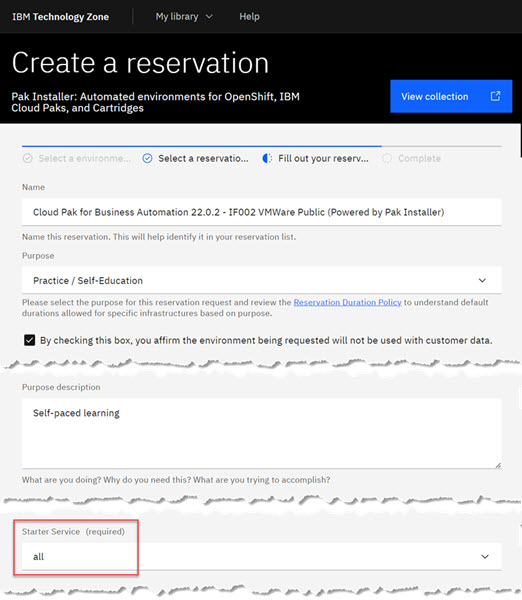
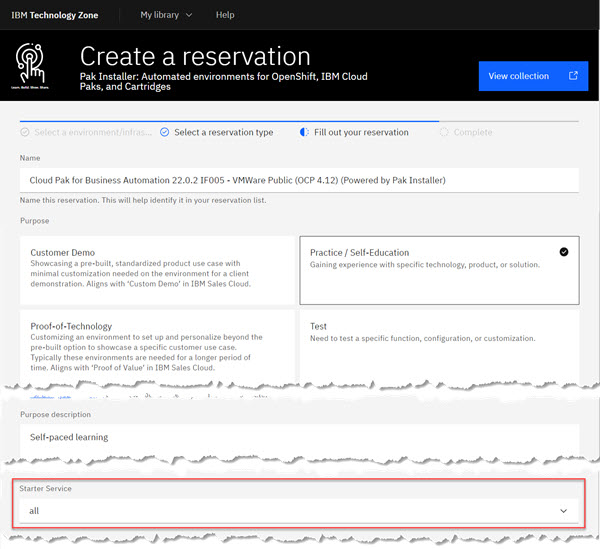
Updates to reflect latest changes on IBM TechZone

diff --git a/22.0.2/DeployingClientOnboarding2202.md b/22.0.2/DeployingClientOnboarding2202.md
@@ -2,7 +2,7 @@
 
 ## Introduction
 
-Use these instruction to deploy the out-of-box end-to-end [Client Onboarding solution](https://github.com/IBM/cp4ba-client-onboarding-scenario) and its accompanying [labs](https://github.com/IBM/cp4ba-client-onboarding-scenario/blob/main/JamInABox.md#table-of-content) to a self-provisioned Jam-in-a-Box environment (based on Cloud Pak for Business Automation (CP4BA) 22.0.2). For more information about Jam-in-a-Box refer to the [Jam-in-a-Box overview](https://github.com/IBM/cp4ba-jam-in-a-box) page.
+Use these instruction to deploy the out-of-box end-to-end [Client Onboarding solution](https://github.com/IBM/cp4ba-client-onboarding-scenario) and its accompanying [labs](https://github.com/IBM/cp4ba-labs/tree/main/22.0.2) to a self-provisioned Jam-in-a-Box environment (based on Cloud Pak for Business Automation (CP4BA) 22.0.2). For more information about Jam-in-a-Box refer to the [Jam-in-a-Box overview](https://github.com/IBM/cp4ba-jam-in-a-box) page.
 
 
 ## Prerequisites
@@ -11,29 +11,31 @@ Use these instruction to deploy the out-of-box end-to-end [Client Onboarding sol
 
    **a) IBM Business Partners and IBMers**
 
-   Reserve a [Jam-in-a-Box for Business Automation](https://techzone.ibm.com/collection/jam-in-a-box-for-business-automation) environment from IBM TechZone. For that select the **Cloud Pak for Business Automation 22.0.2 - IF002 VMWare Public (Powered by Pak Installer)** tile from the [Resources](https://techzone.ibm.com/collection/jam-in-a-box-for-business-automation/resources) tab. 
+   Reserve a [Jam-in-a-Box for Business Automation](https://techzone.ibm.com/collection/jam-in-a-box-for-business-automation) environment from IBM TechZone. For that select the **Cloud Pak for Business Automation 22.0.2 IF005 - VMWare Public (OCP 4.12) (Powered by Pak Installer)** tile from the [Resources](https://techzone.ibm.com/collection/jam-in-a-box-for-business-automation/resources) tab.
 
-   Provide and select the required information. Ensure that you keep the default selection '**all**' in the 'techzone-reservation' dropdown.
+   Provide and select the required information. The selection you make for 'Purpose' determines if you need to specify a 'Sales Opportunity number' and the 'reservation policy' (how long the environment is available and how often it can be extended).
+
+   Ensure that you keep the default selection '**all**' in the 'Starter Service' dropdown.
 
    <img src="..\images\techzone-reservation.jpg" />
 
    Once you have reserved an environment in IBM TechZone, it is first **Scheduled** for provisioning. After a while it moves into status **Provisioning**, and after some time it finally becomes **Ready**. Overall this may take up to 6 hours. You will receive several emails during that period. 
 
-   
-
-   The final email has the subject '**Your environment is ready**'. The email contains a link to the **PakInstaller Portal** that you require.
+   The final email has the subject '**Reservation Ready on IBM Technology Zone**'. It contains a link 'View My Reservations' to get to your reservations. Click on this link and click on the tile that represents your reservation.
 
    <img src="..\images\your-environment-is-ready.jpg"/>
 
-   
+   At the bottom of the screen for your environment, you'll find the **PakInstaller Portal URL** that you require.
+
+   <img src="..\images\techzone-reserved-env.jpg"/>
 
    ***Getting access to the OpenShift Web Console (optional)***
 
-   On the **OpenShift Console** tab of the PakInstaller Portal, you'll find the link to the **OpenShift Web Console** together with the **admin user** (always ocpadmin) and the **password** (unique to each provisioned environment).
+   Open the PakInstaller Portal using the link shown on the reservation details page in IBM TechZone. On the **OpenShift Console** tab of the PakInstaller Portal, you'll find the link to the **OpenShift Web Console** together with the **admin user** (always ocpadmin) and the **password** (unique to each provisioned environment).
 
    <img src="..\images\pakinstaller-portal.jpg" />
 
-   You require the OpenShift Web Console to validate that the Cloud Pak is fully installed and to get the access information for the environment required to deploy the Client Onboarding artifacts.
+   You can use the OpenShift Web Console to validate that the Cloud Pak is fully installed.
 
    When logging into the OpenShift Web Console make sure to select **Daffy htpasswd Provider**.
 
@@ -55,7 +57,7 @@ Use these instruction to deploy the out-of-box end-to-end [Client Onboarding sol
 
    **b) Everybody else**
 
-   Create or use a CP4BA 22.0.2 starter deployment authoring environment with at least the following capabilities: Business Applications, Automation Decision Services, Workflow, Business Automation Insights, and optionally Automation Document Processing.
+   Create or use a CP4BA 22.0.2 Starter deployment authoring environment with at least the following capabilities: Business Applications, Automation Decision Services, Workflow, Business Automation Insights, and optionally Automation Document Processing.
 
    
 
@@ -77,12 +79,12 @@ Use these instruction to deploy the out-of-box end-to-end [Client Onboarding sol
 ### Update bat/sh File
 On Windows open the file **deployClientOnboardingStarter.bat**/on Linux or Mac open the file **deployClientOnboardingStarter.sh** in the text editor of your choice. 
 
-Update the variable `pakInstallerPortalURL` defined at the top of the file with the link from the '**Your environment is ready**' email provided for the **PakInstaller Portal URL**.
+Update the variable `pakInstallerPortalURL` defined at the top of the file with the link from your TechZone reservation details (**PakInstaller Portal URL** at the bottom of the page).
 
-<img src="..\images\your-environment-is-ready.jpg"/>
+<img src="..\images\techzone-reserved-env.jpg"/>
 
 ### Perform Import
-*As part of the deployment, the deployment tool pulls additional resources from its GitHub repository. Ensure the machine you are executing the tool from has access both to GitHub (github.com/githubusercontent.com) and the location where your CP4BA instance is running.*
+*As part of the deployment, the deployment tool pulls additional resources from its GitHub repository. Ensure the machine you are executing the tool from has access (e.g. is not blocked by a firewall or requires a proxy server) both to GitHub (github.com/githubusercontent.com) and the location where your CP4BA instance is running.*
 
 In a console window execute either **`deployClientOnboardingStarter.bat`** or **`./deployClientOnboardingStarter.sh`** to perform the import of the Client Onboarding scenario and lab artifacts.
 
@@ -92,7 +94,7 @@ While executing the deployment tool prints an overview of the actions it perform
 
 #### Error an initial import
 
-After about 10-15 minutes the import should complete with the message 
+After about 20-30 minutes the import should complete with the message 
 
 ```
 Overall Summary - Result: 1 action failed but processing continued as requested and completed successfully
@@ -104,7 +106,9 @@ If you scroll to the top of your console output, you will see the error message 
 Failure publishing automation service of solution 'Client Onboarding', snapshot '1.0.0' 
 ```
 
-Due to a defect in IBM Automation Decision Services (ADS), publishing the ADS automation service fails initially. This problem will be fixed in a later IF of CP4BA 22.0.2.
+Due to a defect in IBM Automation Decision Services (ADS) including CP4BA 22.0.2 IF005, publishing the ADS automation service fails initially. This problem has been fixed CP4BA 22.0.2 IF006.
+
+(The deployment takes considerable amount of time as the security settings for elements in two Content Service object stores need to be updated.)
 
 #### Performing the deployment a second time to fix the initial error
 
@@ -115,7 +119,7 @@ Due to a defect in IBM Automation Decision Services (ADS), publishing the ADS au
 Once the deployment tool completes without a fatal error, it will output a status message that declares successful deployment of the Client Onboarding scenario. In addition it provides key links and user names/passwords for you to use. These links/values are specific to your environment.
 
 ```
-Overall execution completed after 14 mins, 42 secs
+Overall execution completed after 25 mins, 42 secs
 
 Deploying the Client Onboarding scenario artifacts was successful.
 
@@ -171,9 +175,9 @@ In case your deployment fails and you get stuck, please reach out using the cont
 
 ## Advanced Configuration
 
-### Updating bat/sh File for non-Pak Installer Starter Deployment Environments
+### Updating bat/sh File for non-PakInstaller Starter Deployment Environments
 
-In case you have a starter deployment environment of CP4BA 22.0.2 that was not deployed using Pak Installer, update the two variables `ocLoginServer` and `ocLoginToken` defined at the top of the file with your specific details:
+In case you have a starter deployment environment of CP4BA 22.0.2 that was not deployed using PakInstaller, update the two variables `ocLoginServer` and `ocLoginToken` defined at the top of the bat/sh file with your specific details:
 
 1. **Login** to the OpenShift Web Console
 
@@ -187,7 +191,7 @@ In case you have a starter deployment environment of CP4BA 22.0.2 that was not d
 
    <img src="..\images\openshift-log-in-token.jpg" />
 
-5. Start the deployment on the Client Onboarding artifacts
+5. Start the deployment of the Client Onboarding artifacts
 
 ### Configuring an RPA environment 
 
@@ -196,9 +200,9 @@ To experience or demo how the RPA bot is executed as part of running the Client 
 
 **Prerequisite**
 
-Provision an instance of [**IBM Business Automation - Traditional and On-premise. V4 Updated 2023-02-14** ](https://techzone.ibm.com/collection/ibm-business-automation-traditional-and-on-premise/environments) (make sure to use **V4**). Wait until you receive an email from IBM TechZone with the title "Your environment is ready". 
+Provision an instance of [**IBM Business Automation - Traditional and On-premise. V4 Updated 2023-02-14** ](https://techzone.ibm.com/collection/ibm-business-automation-traditional-and-on-premise/environments) (make sure to use **V4**). Wait until you receive an email from IBM TechZone with the title "Reservation Ready on IBM Technology Zone". 
 
-Once the environment is ready select your reservation. At the bottom of the screen you find a large blue button below the header 'VM Remote Console'. It will bring up the Windows desktop as part of the browser window. **This is the recommended way to connect to the RPA VM for demoing the bot execution.** 
+Once the environment is ready, select open your reservation on the IBM TechZone 'My Reservations' page. At the bottom of the screen you find a large blue button below the header 'VM Remote Console'. It will bring up the Windows desktop as part of the browser window. **This is the recommended way to connect to the RPA VM for demoing the bot execution.** 
 
 <img src="..\images\rpa-vm-browser-rdp.jpg" />
 
@@ -206,13 +210,13 @@ Once the environment is ready select your reservation. At the bottom of the scre
 
 **Configuration** 
 
-You need to set the following two variables in the bat/sh-file you downloaded previously:
+You need to set the following two variables in the bat/sh-file you downloaded and edited previously:
 
 1. `rpaBotExecutionUser` - Set to the user for who the RPA bot should be executed for (would normally be `cp4admin`). Setting it to a non-existing user like cp4admin2 will always skip the actual bot invocation.
 
-2. `rpaServer` - Set this to the URL of the RPA environment that you provisioned as described above. Use the URL listed as `RPA Asynch Server API` in the email that you received when your environment became ready. 
+2. `rpaServer` - Set this to the URL of the RPA environment that you provisioned as described above. Use the URL listed as `RPA Asynch Server API` at the top of your reservation on IBM TechZone. 
 
-   <img src="..\images\rpa-reservation-sync-url.jpg" />
+   <img src="..\images\rpa-reservation-async-url.jpg" />
 
 If you have previously run the deployment, run it again. It will recognize that your RPA configuration has changed and will redeploy the artifact that contains the changed RPA information.
 
@@ -228,7 +232,7 @@ In case emails should be send to public/external email addresses, you can option
 
 In the sh/bat file uncomment the two lines with the parameters`gmailAddress` and `gmailAppKey`. Set them to the values of your gmail account as described above.
 
-If you have previously run the deployment, run it again. It will recognize that your RPA configuration has changed and will redeploy the artifact that contains the changed RPA information.
+If you have previously run the deployment, run it again. It will recognize that your email server configuration has changed and will redeploy the artifact that contains the changed email server information.
 
 ### Using a proxy server to access github.com
 
@@ -263,7 +267,7 @@ In case you want to clean up your environment and remove the Client Onboarding a
 
    **Windows** - *CP4BA 22.0.2* - Starter deployment - **[undeploy](https://raw.githubusercontent.com/IBM/cp4ba-client-onboarding-scenario/main/22.0.2/Deployment_Automation/undeployClientOnboardingStarter.bat)**
 
-2. Update the variable `pakInstallerPortalURL` defined at the top of the file with the link from the '**Your environment is ready**' email provided for the **PakInstaller Portal URL**. Alternatively use the approach described above in the 'Updating bat/sh File for non-Pak Installer Starter Deployment Environments' section.
+2. Update the variable `pakInstallerPortalURL` defined at the top of the file with the link from your TechZone reservation details (**PakInstaller Portal URL** at the bottom of the page). Alternatively use the approach described above in the 'Updating bat/sh File for non-Pak Installer Starter Deployment Environments' section.
 
 ## Support
 
